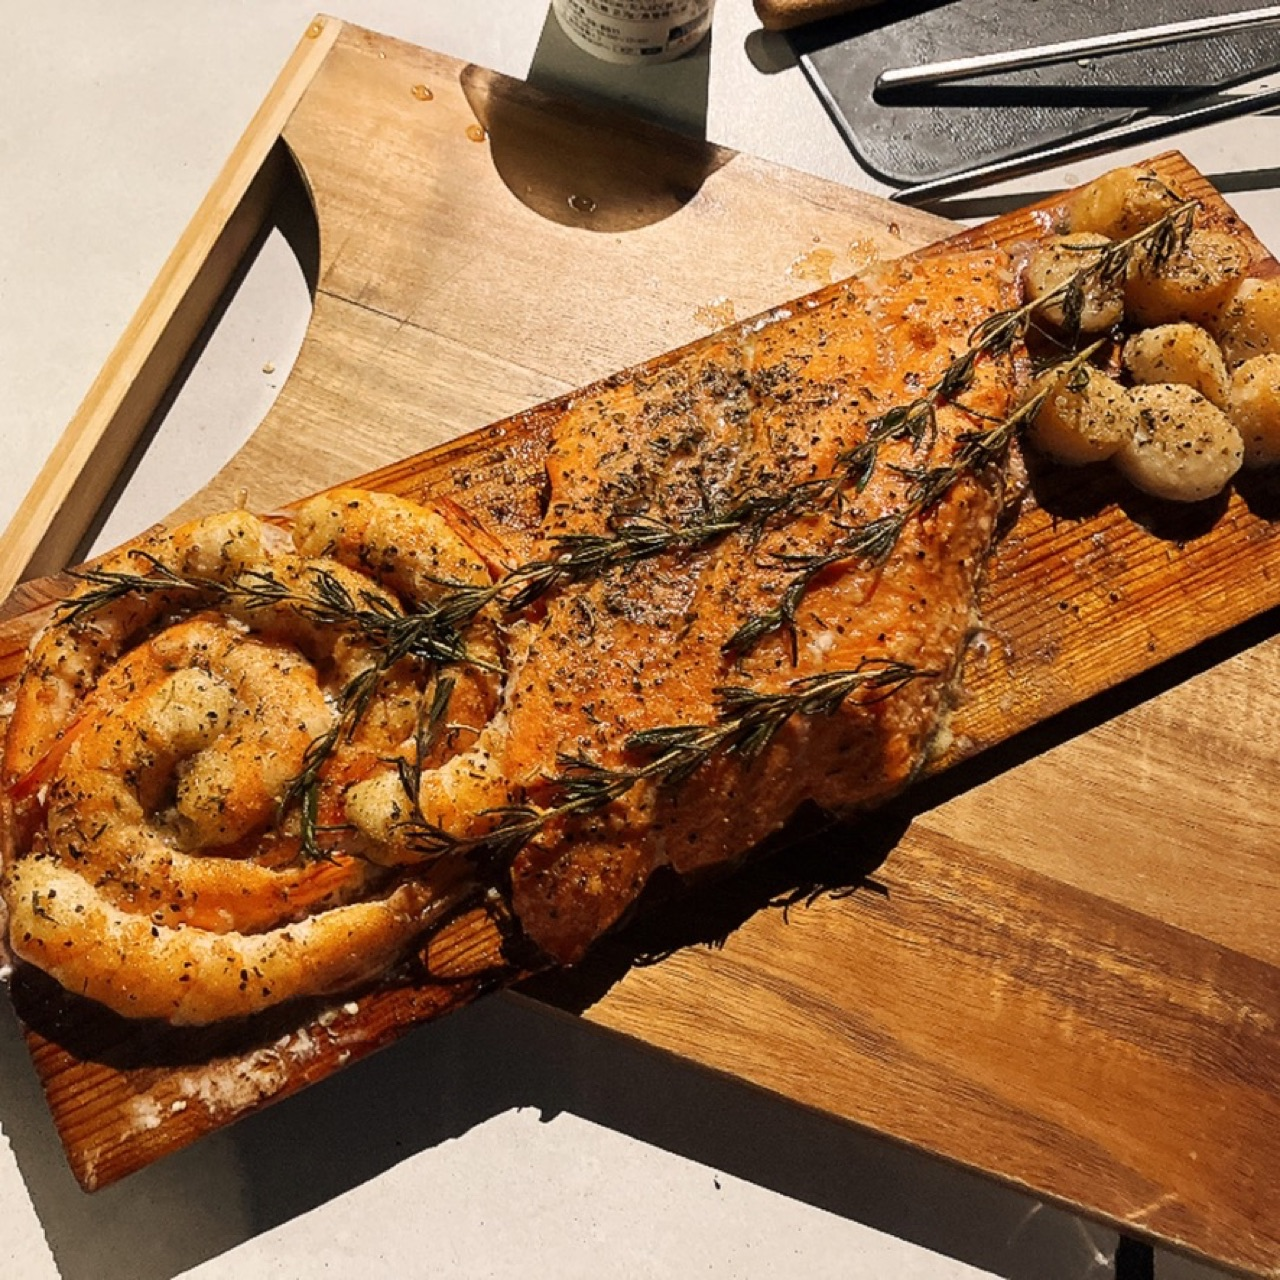
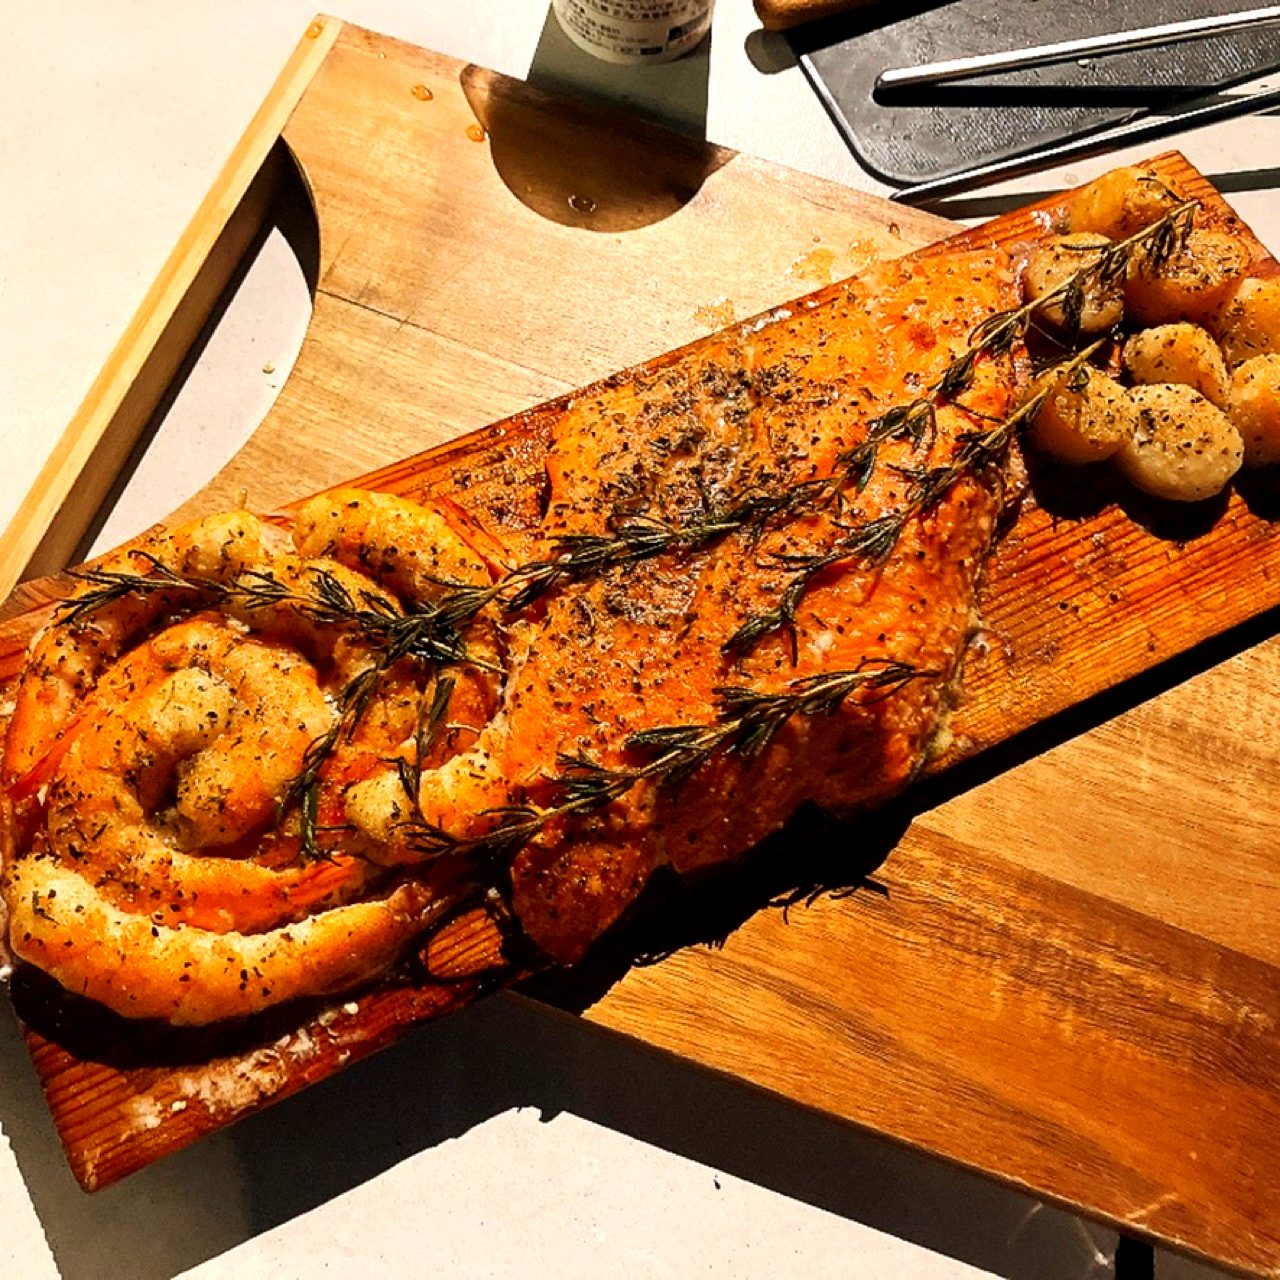
journal: サムネ写真を再現像して鮮やかに（彩度+30%・かすみ除去）
PillowでBBQサムネ16枚をautocontrast(かすみ除去)+彩度1.30+コントラスト1.07
+シャープ1.12で再現像。発色を写真自体に焼き込み、二重がけ防止のため
CSSのsaturate/contrastフィルタは撤去。:has(img)のopacity補正は維持。
ファイルサイズも軽量化(例 seafood 562→371KB)。CSS版を?v=cに更新。

diff --git a/journal/journal.css b/journal/journal.css
@@ -789,7 +789,6 @@
   object-fit: cover;
   display: block;
   opacity: 1;
-  filter: saturate(1.12) contrast(1.05);
 }
 @media (min-width: 880px) { .jr-feat-img { aspect-ratio: auto; min-height: 420px; } }
 .jr-feat-meta {
@@ -888,7 +887,6 @@
   object-fit: cover;
   display: block;
   opacity: 1;
-  filter: saturate(1.12) contrast(1.05);
   transition: transform 0.4s ease;
 }
 .jr-list-card:hover .jr-list-img img { transform: scale(1.04); }

diff --git a/journal/category/gear.html b/journal/category/gear.html
@@ -23,7 +23,7 @@
   <link rel="stylesheet" href="../../style.css?v=20260513">
   <link rel="stylesheet" href="../../assets/global-search.css?v=20260516">
   <link rel="stylesheet" href="../../assets/sf-features.css?v=20260517">
-  <link rel="stylesheet" href="../journal.css?v=20260629b">
+  <link rel="stylesheet" href="../journal.css?v=20260629c">
   <script type="application/ld+json">
   {
   "@context": "https://schema.org",

diff --git a/journal/category/philosophy.html b/journal/category/philosophy.html
@@ -23,7 +23,7 @@
   <link rel="stylesheet" href="../../style.css?v=20260513">
   <link rel="stylesheet" href="../../assets/global-search.css?v=20260516">
   <link rel="stylesheet" href="../../assets/sf-features.css?v=20260517">
-  <link rel="stylesheet" href="../journal.css?v=20260629b">
+  <link rel="stylesheet" href="../journal.css?v=20260629c">
   <script type="application/ld+json">
   {
   "@context": "https://schema.org",

diff --git a/journal/category/recipe.html b/journal/category/recipe.html
@@ -23,7 +23,7 @@
   <link rel="stylesheet" href="../../style.css?v=20260513">
   <link rel="stylesheet" href="../../assets/global-search.css?v=20260516">
   <link rel="stylesheet" href="../../assets/sf-features.css?v=20260517">
-  <link rel="stylesheet" href="../journal.css?v=20260629b">
+  <link rel="stylesheet" href="../journal.css?v=20260629c">
   <script type="application/ld+json">
   {
   "@context": "https://schema.org",

diff --git a/journal/category/science.html b/journal/category/science.html
@@ -23,7 +23,7 @@
   <link rel="stylesheet" href="../../style.css?v=20260513">
   <link rel="stylesheet" href="../../assets/global-search.css?v=20260516">
   <link rel="stylesheet" href="../../assets/sf-features.css?v=20260517">
-  <link rel="stylesheet" href="../journal.css?v=20260629b">
+  <link rel="stylesheet" href="../journal.css?v=20260629c">
   <script type="application/ld+json">
   {
   "@context": "https://schema.org",

diff --git a/journal/index.html b/journal/index.html
@@ -27,7 +27,7 @@
   <link rel="stylesheet" href="../style.css?v=20260506e">
   <link rel="stylesheet" href="../assets/global-search.css?v=20260516">
   <link rel="stylesheet" href="../assets/sf-features.css?v=20260517">
-  <link rel="stylesheet" href="journal.css?v=20260629b">
+  <link rel="stylesheet" href="journal.css?v=20260629c">
 
   <script type="application/ld+json">
   {
